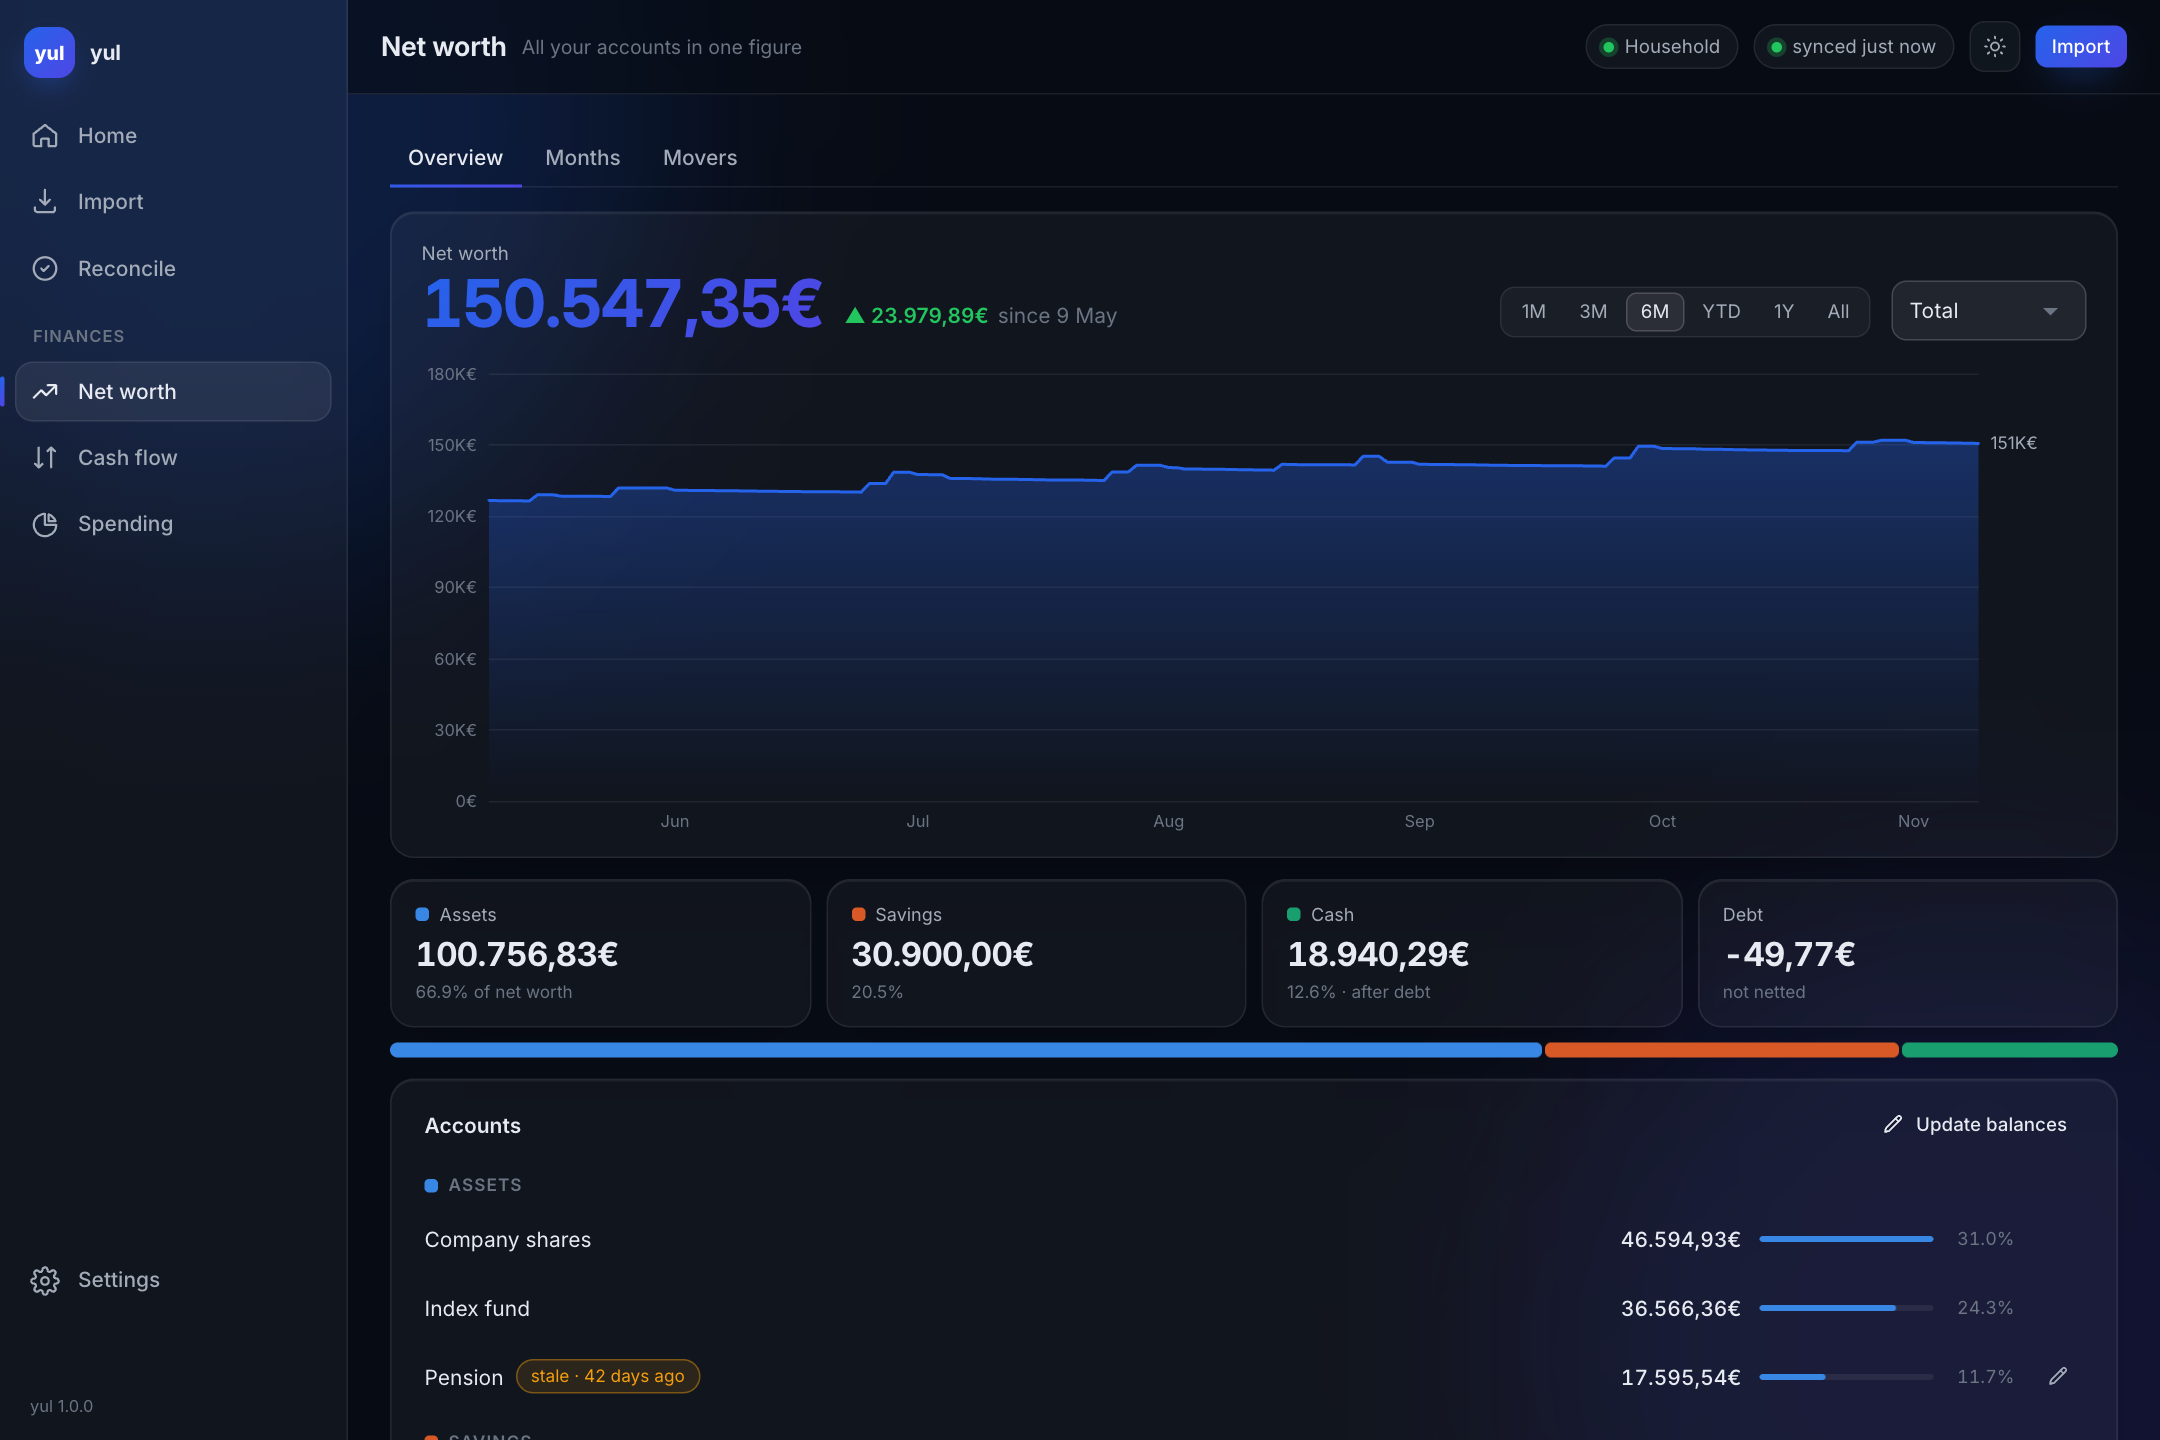
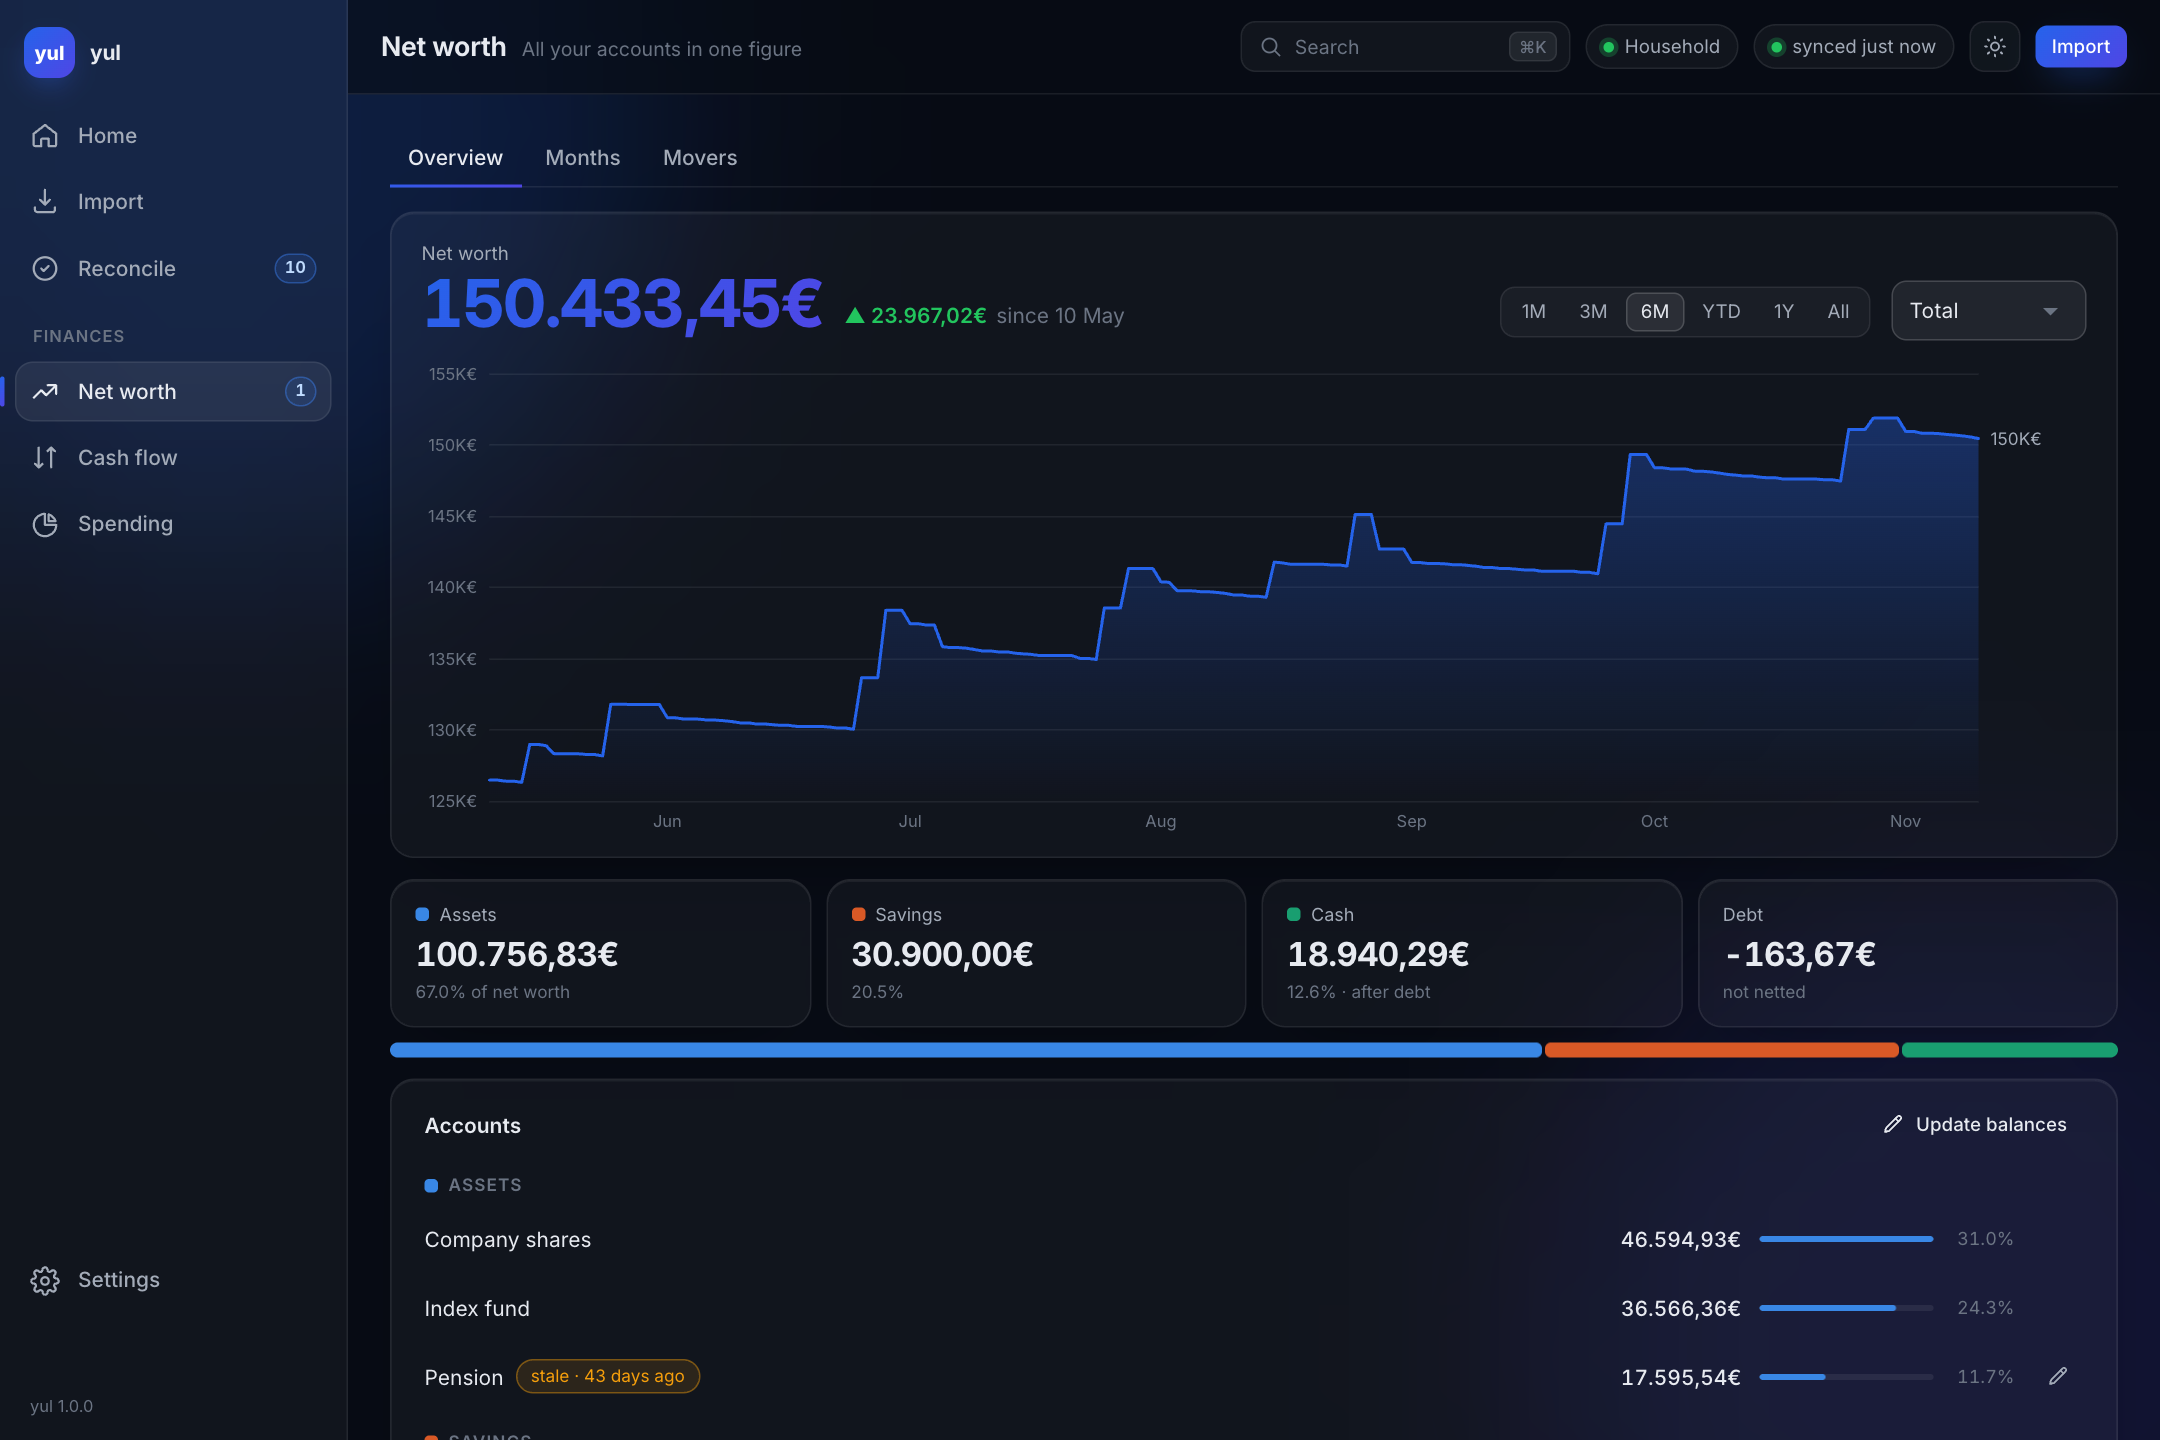
Follow a sync without marking old badges as fresh, link to YNAB's token page, README in three steps
The tab read the data version after counting the badges, so a sync landing
in between was marked as drawn with what was read before it. The version is
read first, and the badges and the page each remember their own.

Setup, Settings > Connection and the command line prompt link to
app.ynab.com/settings/developer. The README opens with Get started (install,
create a token, run), shows the search, and its pictures are taken again.

diff --git a/src/ynab_unlinked/web/static/yul.css b/src/ynab_unlinked/web/static/yul.css
@@ -223,6 +223,9 @@ body::after { background: var(--bg-blob-2); bottom: -240px; right: -180px; }
 .yul-grad { background: var(--accent); -webkit-background-clip: text; background-clip: text; color: transparent; }
 .yul-hero { font-size: 56px; font-weight: 700; letter-spacing: -.02em; line-height: 1; }
 .yul-label { font-size: 11.5px; color: var(--text-3); text-transform: uppercase; letter-spacing: .05em; }
+.yul-link { color: var(--accent-2); text-decoration: underline; text-underline-offset: 3px; }
+.yul-link:hover { color: var(--text); }
+.yul-token-hint { display: flex; flex-wrap: wrap; gap: 0 5px; }
 .yul-row { display: flex; align-items: center; gap: 10px; }
 .yul-grow { flex: 1; min-width: 0; }
 
@@ -727,7 +730,7 @@ body.yul-dragging .yul-dropover { display: grid; animation: yul-fade .15s ease b
 /* The month so far: three figures, the pace bar against a usual month, the year's two numbers */
 .yul-month-figs { display: grid; grid-template-columns: repeat(3, minmax(0, 1fr)); gap: 10px; }
 .yul-month-k { font-size: 19px; font-weight: 700; letter-spacing: -.02em; white-space: nowrap; }
-.yul-pace { position: relative; height: 8px; border-radius: 999px; background: var(--surface-2); margin: 14px 0 8px; }
+.yul-pace { position: relative; height: 8px; border-radius: 999px; background: color-mix(in oklab, var(--text) 9%, transparent); margin: 14px 0 8px; }
 .yul-pace > i { display: block; height: 100%; border-radius: 999px; background: var(--series-1); animation: yul-grow .5s var(--ease) both; transform-origin: left; }
 .yul-pace > i.over { background: var(--warn); }
 .yul-pace > b, .yul-hbar-track > b { position: absolute; top: -3px; bottom: -3px; width: 2px; border-radius: 2px; background: var(--text-2); }
@@ -1240,7 +1243,8 @@ body.body--light .yul-imp-body { background: rgba(15, 23, 42, .03); }
   /* A row of tabs or of range pills scrolls sideways instead of wrapping or squeezing its title */
   .yul-tabs { flex-wrap: nowrap; overflow-x: auto; scrollbar-width: none; }
   .yul-tab { white-space: nowrap; }
-  .yul-nwm-head > .yul-grow, .yul-nw-head > .yul-grow { flex-basis: 100%; }
+  .yul-nwm-head > .yul-grow, .yul-nw-head > .yul-grow, .yul-rec-head > .yul-grow { flex-basis: 100%; }
+  .yul-nwm-card > .yul-row { flex-wrap: wrap; gap: 2px 10px; }
   .yul-pills { max-width: 100%; overflow-x: auto; scrollbar-width: none; }
   .yul-foot { bottom: calc(64px + env(safe-area-inset-bottom)); }
   .q-notifications__list--top { top: 58px; }

diff --git a/src/ynab_unlinked/web/frame.py b/src/ynab_unlinked/web/frame.py
@@ -244,13 +244,15 @@ async def _tick(layout: Layout) -> None:
     """Keep the tab up to date: sync an old copy, follow a sync that changed it."""
     current = state()
     current.sync_if_stale()
-    if current.syncing or current.data_version == layout.version:
+    if current.syncing:
         return
-    first = layout.version < 0
-    await _refresh_badges(layout)
-    if first:
-        layout.version = current.data_version
-    else:
+    # Read before the copy is: a sync landing meanwhile is then seen by the next tick,
+    # instead of being marked as drawn with what was read before it
+    version = current.data_version
+    if version != layout.badges_version:
+        await _refresh_badges(layout)
+        layout.badges_version = version
+    if version != layout.version:
         shell.refresh_view(automatic=True)
 
 
@@ -275,6 +277,8 @@ def root() -> RedirectResponse | None:
                 nav=nav,
                 badges=badges,
                 import_button=bar.import_button,
+                # Before the page reads the copy: a sync landing while it draws redraws it
+                version=state().data_version,
             )
             tab_storage()[shell.LAYOUT_KEY] = layout
             with ui.element("div").classes("yul-views"):

diff --git a/scripts/readme_screenshots.py b/scripts/readme_screenshots.py
@@ -499,12 +499,15 @@ def serve(home: Path) -> None:
 WIDTH = 1440
 HEIGHTS = {"import": 480, "reconcile": 760, "settings": 880}
 """Pages with little on them are cut short of the window's 960."""
+PALETTE = "palette"
+"""Opens the command palette and types a few letters instead of clicking."""
 STATEMENT = "statement"
 """Drops a made-up Sabadell statement on the page instead of clicking."""
 
 SHOTS: list[tuple[str, str, str | None]] = [
     # file, path, text of something to click first
     ("home", "/", None),
+    ("palette", "/", PALETTE),
     ("import", "/import", STATEMENT),
     ("reconcile", "/reconcile", None),
     ("networth-overview", "/networth", None),
@@ -571,7 +574,12 @@ def shoot() -> None:
             page.goto(f"{base}{path}")
             page.wait_for_load_state("networkidle")
             time.sleep(2.5)  # charts animate in
-            if click == STATEMENT:
+            if click == PALETTE:
+                page.keyboard.press("/")
+                time.sleep(1)
+                page.keyboard.type("gro", delay=60)
+                time.sleep(1)
+            elif click == STATEMENT:
                 page.locator("input[type=file]").first.set_input_files(str(statement))
                 time.sleep(3)
             elif click:

diff --git a/src/ynab_unlinked/web/views/settings/connection.py b/src/ynab_unlinked/web/views/settings/connection.py
@@ -10,7 +10,14 @@ from ynab_unlinked import keychain
 from ynab_unlinked.config import LatestConfig
 from ynab_unlinked.config import switch_budget as switch_budget_in
 from ynab_unlinked.web import shell
-from ynab_unlinked.web.components import budget_tiles, button, dialog_box, loading, show_state
+from ynab_unlinked.web.components import (
+    budget_tiles,
+    button,
+    dialog_box,
+    loading,
+    show_state,
+    token_hint,
+)
 from ynab_unlinked.web.state import state
 from ynab_unlinked.web.views.settings.common import current_config, kv
 from ynab_unlinked.web.wording import ynab_error_message
@@ -71,6 +78,8 @@ def _token_change(page: Settings, area: ui.element) -> None:
         save_button = button("Check and save", kind="primary", small=True)
         save_button.mark("save-token")
         button("Cancel", kind="ghost", small=True, on_click=lambda: area.set_visibility(False))
+    with ui.element("div").classes("yul-faint yul-small"):
+        token_hint()
     status = ui.element("div").classes("yul-row yul-inline-state")
 
     async def check_and_save() -> None:

diff --git a/src/ynab_unlinked/web/views/settings/__init__.py b/src/ynab_unlinked/web/views/settings/__init__.py
@@ -58,8 +58,6 @@ ICONS = {
 }
 LEDES = {
     "Connection": "The YNAB account and the budget yul works with.",
-    "Banks": "The banks you import from, and the account each one's statements go to.",
-    "Appearance": "The colours of the app. Light and dark are a click away in the top bar.",
     "Data & privacy": "What yul keeps on this computer, and how to remove it.",
 }
 """One line under the title of the tabs that do not open with an explanation of their own."""
@@ -112,6 +110,11 @@ class Settings:
             set_class(item, "on", name == tab)
             item.props["aria-selected"] = "true" if name == tab else "false"
             item.update()
+        # On a narrow window the tabs are a row that scrolls: keep the open one in sight
+        ui.run_javascript(
+            f"getHtmlElement({self.tab_buttons[tab].id})"
+            "?.scrollIntoView({block: 'nearest', inline: 'nearest'})"
+        )
         assert self.panel is not None
         self.panel.clear()
         with self.panel:

diff --git a/src/ynab_unlinked/cli/utils.py b/src/ynab_unlinked/cli/utils.py
@@ -7,13 +7,14 @@ from rich.style import Style
 from rich.table import Column, Table
 from rich.text import Text
 
-from ynab_unlinked.cli.display import CliProgress, console, process, question
+from ynab_unlinked.cli.display import CliProgress, console, info, process, question
 from ynab_unlinked.config import get_config
 from ynab_unlinked.config.budget import budget_from_plan
 from ynab_unlinked.config.models.v2 import Budget
 from ynab_unlinked.core.importing import ImportRow, RowStatus
 from ynab_unlinked.formatter import Formatter
 from ynab_unlinked.models import Transaction
+from ynab_unlinked.text import YNAB_TOKEN_URL
 from ynab_unlinked.ynab_api.client import Client
 
 IMPORT_HELP_MESSAGE = (
@@ -37,6 +38,7 @@ _STATUS: dict[RowStatus, tuple[str, Style]] = {
 
 
 def prompt_for_api_key() -> str:
+    info(f"Create a Personal Access Token in YNAB: {YNAB_TOKEN_URL}")
     return question("What is the API Key to connect to YNAB?", password=True)
 
 

diff --git a/src/ynab_unlinked/web/components/__init__.py b/src/ynab_unlinked/web/components/__init__.py
@@ -17,6 +17,7 @@ from nicegui import ui
 from ynab import PlanSummary
 
 from ynab_unlinked.config.models.v2 import CurrencyFormat
+from ynab_unlinked.text import YNAB_TOKEN_URL
 from ynab_unlinked.web.components.history_chart import money_js
 from ynab_unlinked.web.theme import STATIC_ROUTE
 from ynab_unlinked.web.wording import budget_caption
@@ -217,6 +218,14 @@ def empty_state(
         if action_label:
             button(action_label, on_click=on_action, kind="primary")
     return element
+
+
+def token_hint() -> ui.element:
+    """Where a Personal Access Token is created, with a link that opens YNAB on that page."""
+    with ui.element("div").classes("yul-token-hint").mark("token-hint") as hint:
+        ui.link("Create one in YNAB", YNAB_TOKEN_URL, new_tab=True).classes("yul-link")
+        ui.label("under Account Settings → Developer Settings.")
+    return hint
 
 
 def share_bar(fraction: float, color: str) -> ui.element:

diff --git a/src/ynab_unlinked/web/views/onboarding/view.py b/src/ynab_unlinked/web/views/onboarding/view.py
@@ -26,6 +26,7 @@ from ynab_unlinked.web.components import (
     set_class,
     show_state,
     spinner,
+    token_hint,
 )
 from ynab_unlinked.web.state import state
 from ynab_unlinked.web.views.onboarding.data import (
@@ -335,7 +336,7 @@ class Wizard:
             button("Check", kind="primary", on_click=self.check_token).mark("check-token")
         self.render_message()
         with ui.element("div").classes("yul-faint yul-small").style("margin-top:10px"):
-            ui.label("Create one in YNAB under Account Settings → Developer Settings.")
+            token_hint()
             if (name := keychain.backend_name()) is not None:
                 ui.label(f"Kept in your {name}, not in a file.").style("margin-top:4px")
             else:

diff --git a/tests/web/views/test_onboarding.py b/tests/web/views/test_onboarding.py
@@ -281,3 +281,13 @@ async def test_a_recovered_token_whose_config_file_is_gone_is_not_saved(
     await user.should_see(marker="token-lost")
     assert not config_files.path("V4").exists()
     assert memory_keychain.passwords == {}
+
+
+async def test_the_token_step_links_to_where_ynab_creates_one(user: User):
+    await user.open("/onboarding")
+
+    await user.should_see(marker="token-hint")
+    [hint] = user.find(marker="token-hint").elements
+    [link] = [child for child in hint.descendants() if isinstance(child, ui.link)]
+    assert link.props["href"] == "https://app.ynab.com/settings/developer"
+    assert link.props["target"] == "_blank"

diff --git a/tests/cli/utils/test_prompt_for_api_key.py b/tests/cli/utils/test_prompt_for_api_key.py
@@ -1,0 +1,15 @@
+from pytest_mock import MockerFixture
+
+from ynab_unlinked.cli import utils
+from ynab_unlinked.text import YNAB_TOKEN_URL
+
+
+def test_the_token_prompt_says_where_ynab_creates_one(mocker: MockerFixture):
+    said = mocker.patch.object(utils, "info")
+    asked = mocker.patch.object(utils, "question", return_value="a-token")
+
+    assert utils.prompt_for_api_key() == "a-token"
+
+    said.assert_called_once()
+    assert YNAB_TOKEN_URL in said.call_args.args[0]
+    assert asked.call_args.kwargs == {"password": True}

diff --git a/src/ynab_unlinked/web/shell.py b/src/ynab_unlinked/web/shell.py
@@ -217,7 +217,9 @@ class Layout:
     pages: ui.sub_pages | None = None
     active: str | None = None
     version: int = -1
-    """The `state().data_version` the page and the badges on screen were drawn from."""
+    """The `state().data_version` the page on screen was drawn from, at the latest."""
+    badges_version: int = -1
+    """The one the sidebar's badges were counted from; -1 before they were."""
 
 
 def layout() -> Layout | None:

diff --git a/src/ynab_unlinked/text.py b/src/ynab_unlinked/text.py
@@ -1,5 +1,8 @@
 """Small wording helpers the CLI and the web app share. No UI library."""
 
+YNAB_TOKEN_URL = "https://app.ynab.com/settings/developer"
+"""Where a Personal Access Token is created: YNAB's Account Settings, Developer Settings."""
+
 
 def plural(count: int, word: str) -> str:
     """ "1 file", "3 files"."""
